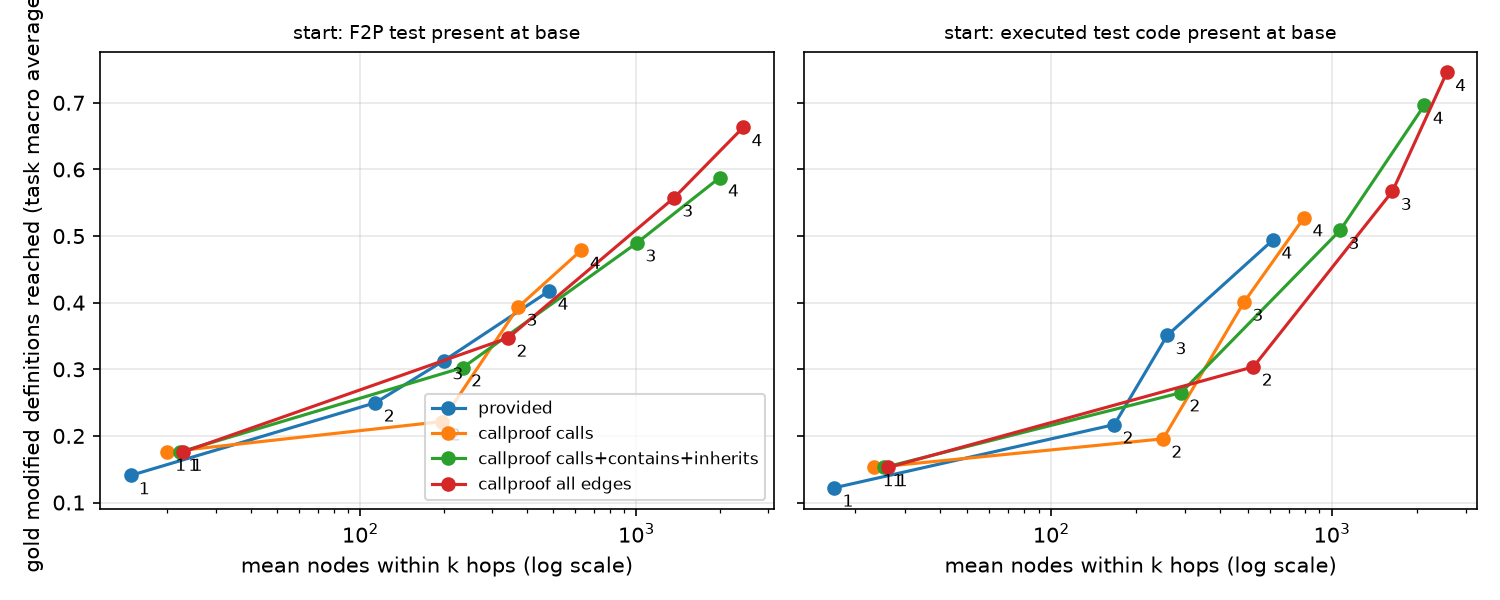
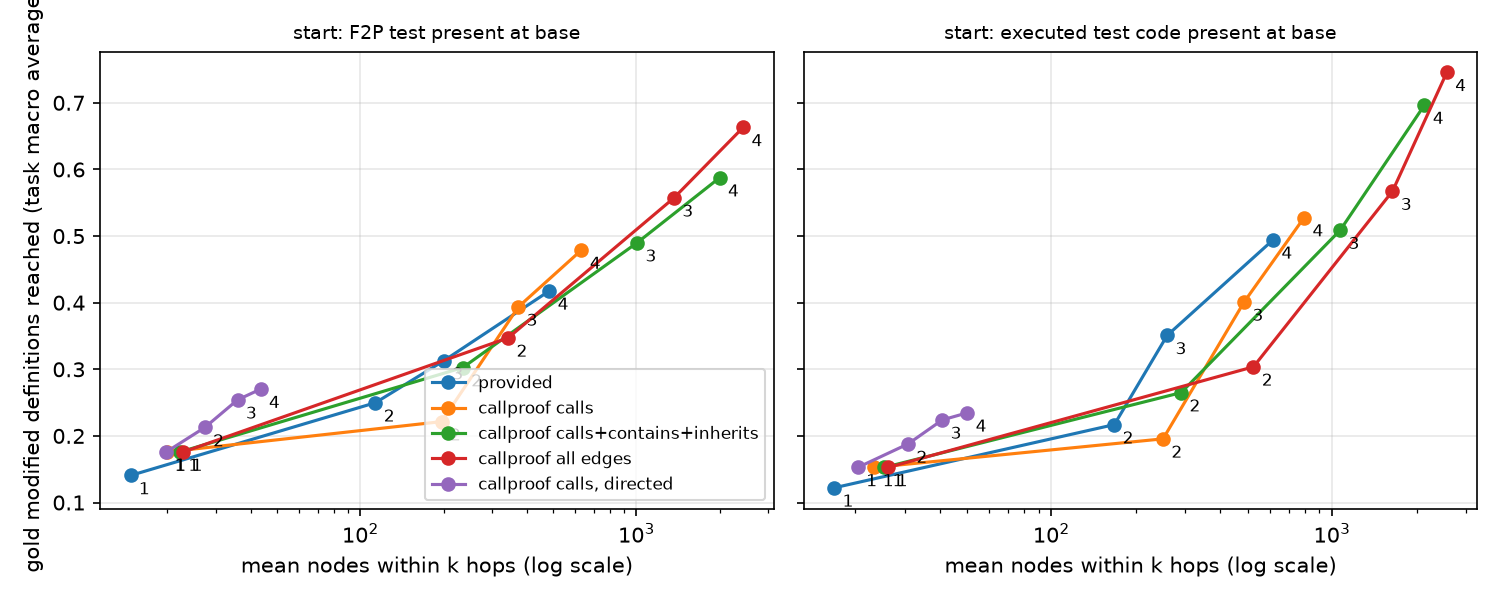
add directed callee reachability variant

diff --git a/scripts/analysis_extra.py b/scripts/analysis_extra.py
@@ -46,10 +46,11 @@ BUDGETS = (5, 10, 20)
 BOOTSTRAP_DRAWS = 10_000
 CALLS_CIC = ("calls", "contains", "inherits")
 REACH_VARIANTS = {
-    "provided": ("prov", None),
-    "callproof calls": ("ours", ("calls",)),
-    "callproof calls+contains+inherits": ("ours", CALLS_CIC),
-    "callproof all edges": ("ours", None),
+    "provided": ("prov", None, False),
+    "callproof calls": ("ours", ("calls",), False),
+    "callproof calls+contains+inherits": ("ours", CALLS_CIC, False),
+    "callproof all edges": ("ours", None, False),
+    "callproof calls, directed": ("ours", ("calls",), True),
 }
 WALK_VARIANTS = {
     "provided": ("prov", None),
@@ -123,7 +124,7 @@ def precision_rows(task: dict, keys: dict[str, list[Key]], views: dict[str, audi
 def reach_rows(task: dict, keys: dict[str, list[Key]], views: dict[str, audit.GraphView], adjs: dict[str, dict]) -> list[dict]:
     rows = []
     for source, _label in SOURCES.items():
-        for variant, (name, _types) in REACH_VARIANTS.items():
+        for variant, (name, _types, _directed) in REACH_VARIANTS.items():
             key_nodes = views[name].key_nodes()
             start = nodes_of(key_nodes, keys[source])
             gold_nodes = [key_nodes.get(k, set()) for k in keys["gold"]]
@@ -194,7 +195,7 @@ def analyse_commit(dataset: Dataset, tasks: list[dict], graphs_dir: Path, ground
     provided = load_graph(dataset.graph_path(first))
     ours = load_graph(graphs_dir / f"{key}.json")
     views = {"prov": audit.GraphView.harness(provided, index), "ours": audit.GraphView.callproof(ours, index)}
-    adjs = {variant: adjacency(views[name].graph, types, directed=False) for variant, (name, types) in REACH_VARIANTS.items()}
+    adjs = {variant: adjacency(views[name].graph, types, directed) for variant, (name, types, directed) in REACH_VARIANTS.items()}
     code_graphs = {"prov": CodeGraph(dataset.graph_path(first), None, key), "ours": CodeGraph(graphs_dir / f"{key}.json", None, key)}
     result: dict[str, list] = {"precision": [], "reach": [], "walker": []}
     for task in tasks:
